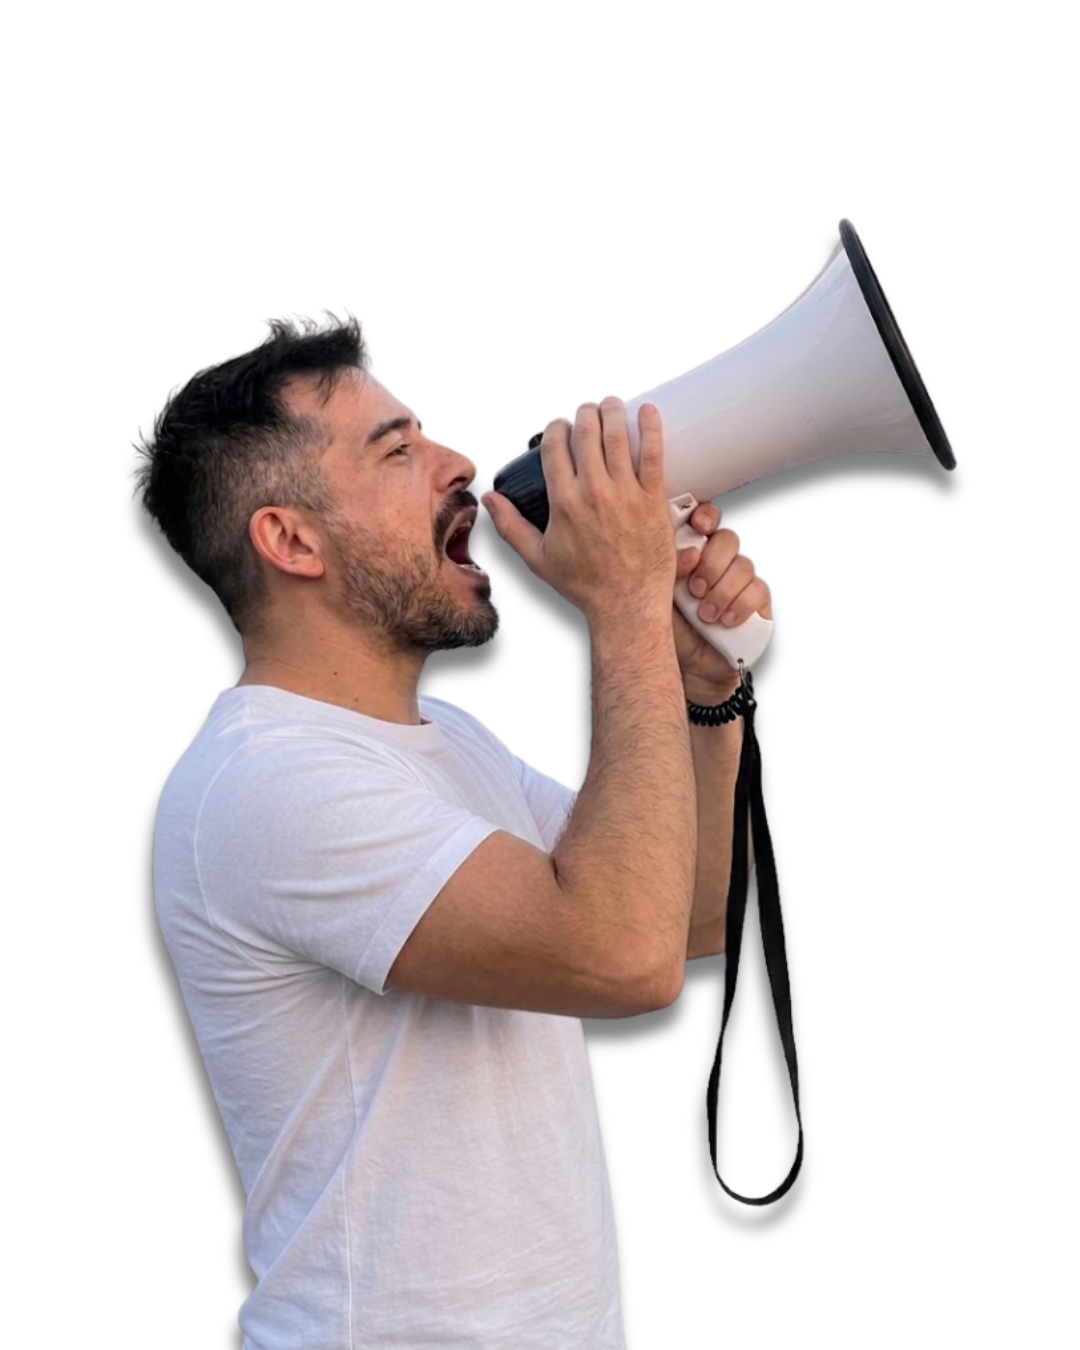
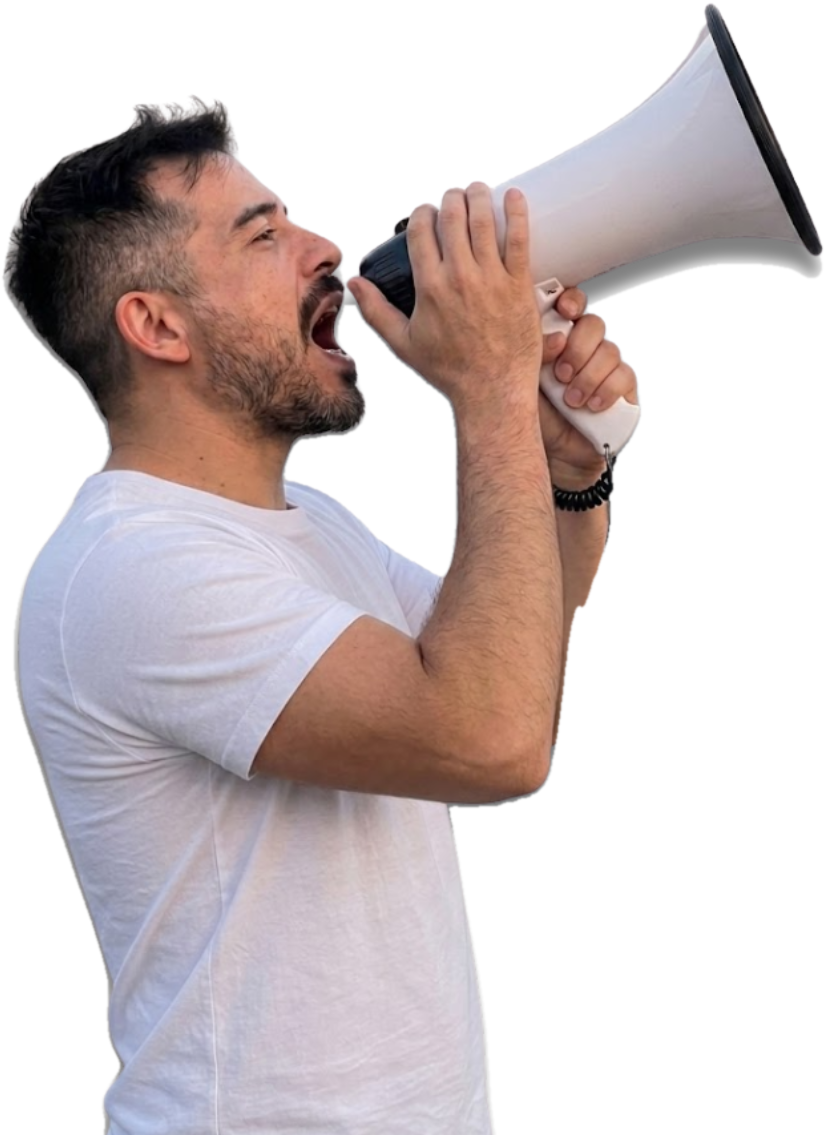
Add files via upload

diff --git a/assets/style.css b/assets/style.css
@@ -107,7 +107,7 @@ nav a:hover{ color: var(--text); }
 }
 
 .about-row{
-  margin-top: 48px;
+  margin-top: 36px;
   display:grid;
   grid-template-columns: 0.7fr 1fr;
   gap: 44px;
@@ -121,15 +121,35 @@ nav a:hover{ color: var(--text); }
   align-items:flex-end;
   justify-content:center;
   overflow:hidden;
+  min-height: 360px;
 }
-.about-row .about-photo img{ max-height: 340px; width:auto; }
+.about-row .about-photo img{ max-height: 360px; width:auto; }
 .about-row p{
   font-size: 18px;
   color: var(--text-dim);
   max-width: 50ch;
-  margin: 0;
+  margin: 0 0 16px;
 }
 .about-row strong{ color: var(--text); }
+.about-facts{
+  margin-top: 24px;
+  display:flex;
+  gap: 32px;
+  flex-wrap: wrap;
+}
+.about-facts div{ min-width: 140px; }
+.about-facts .fact-label{
+  font-size: 12.5px;
+  color: var(--text-dim);
+  text-transform: uppercase;
+  letter-spacing: .06em;
+  margin-bottom: 6px;
+}
+.about-facts .fact-value{
+  font-family:'Unbounded';
+  font-size: 15px;
+  font-weight: 600;
+}
 
 .hero-ctas{
   margin-top: 34px;
@@ -194,12 +214,13 @@ section{
   border-radius: var(--radius);
   overflow: hidden;
   display:grid;
-  grid-template-columns: 1fr 1fr;
+  grid-template-columns: 0.55fr 1fr;
 }
 .service-card .shot{
   overflow:hidden;
   background: var(--violet);
-  min-height: 260px;
+  max-height: 320px;
+  align-self: center;
 }
 .service-card .shot img{
   width:100%;
@@ -224,7 +245,7 @@ section{
 }
 @media (max-width: 720px){
   .service-card{ grid-template-columns: 1fr; }
-  .service-card .shot{ min-height: 200px; }
+  .service-card .shot{ max-height: 200px; }
 }
 
 /* ---------- Work gallery (community-manager.html) ---------- */
